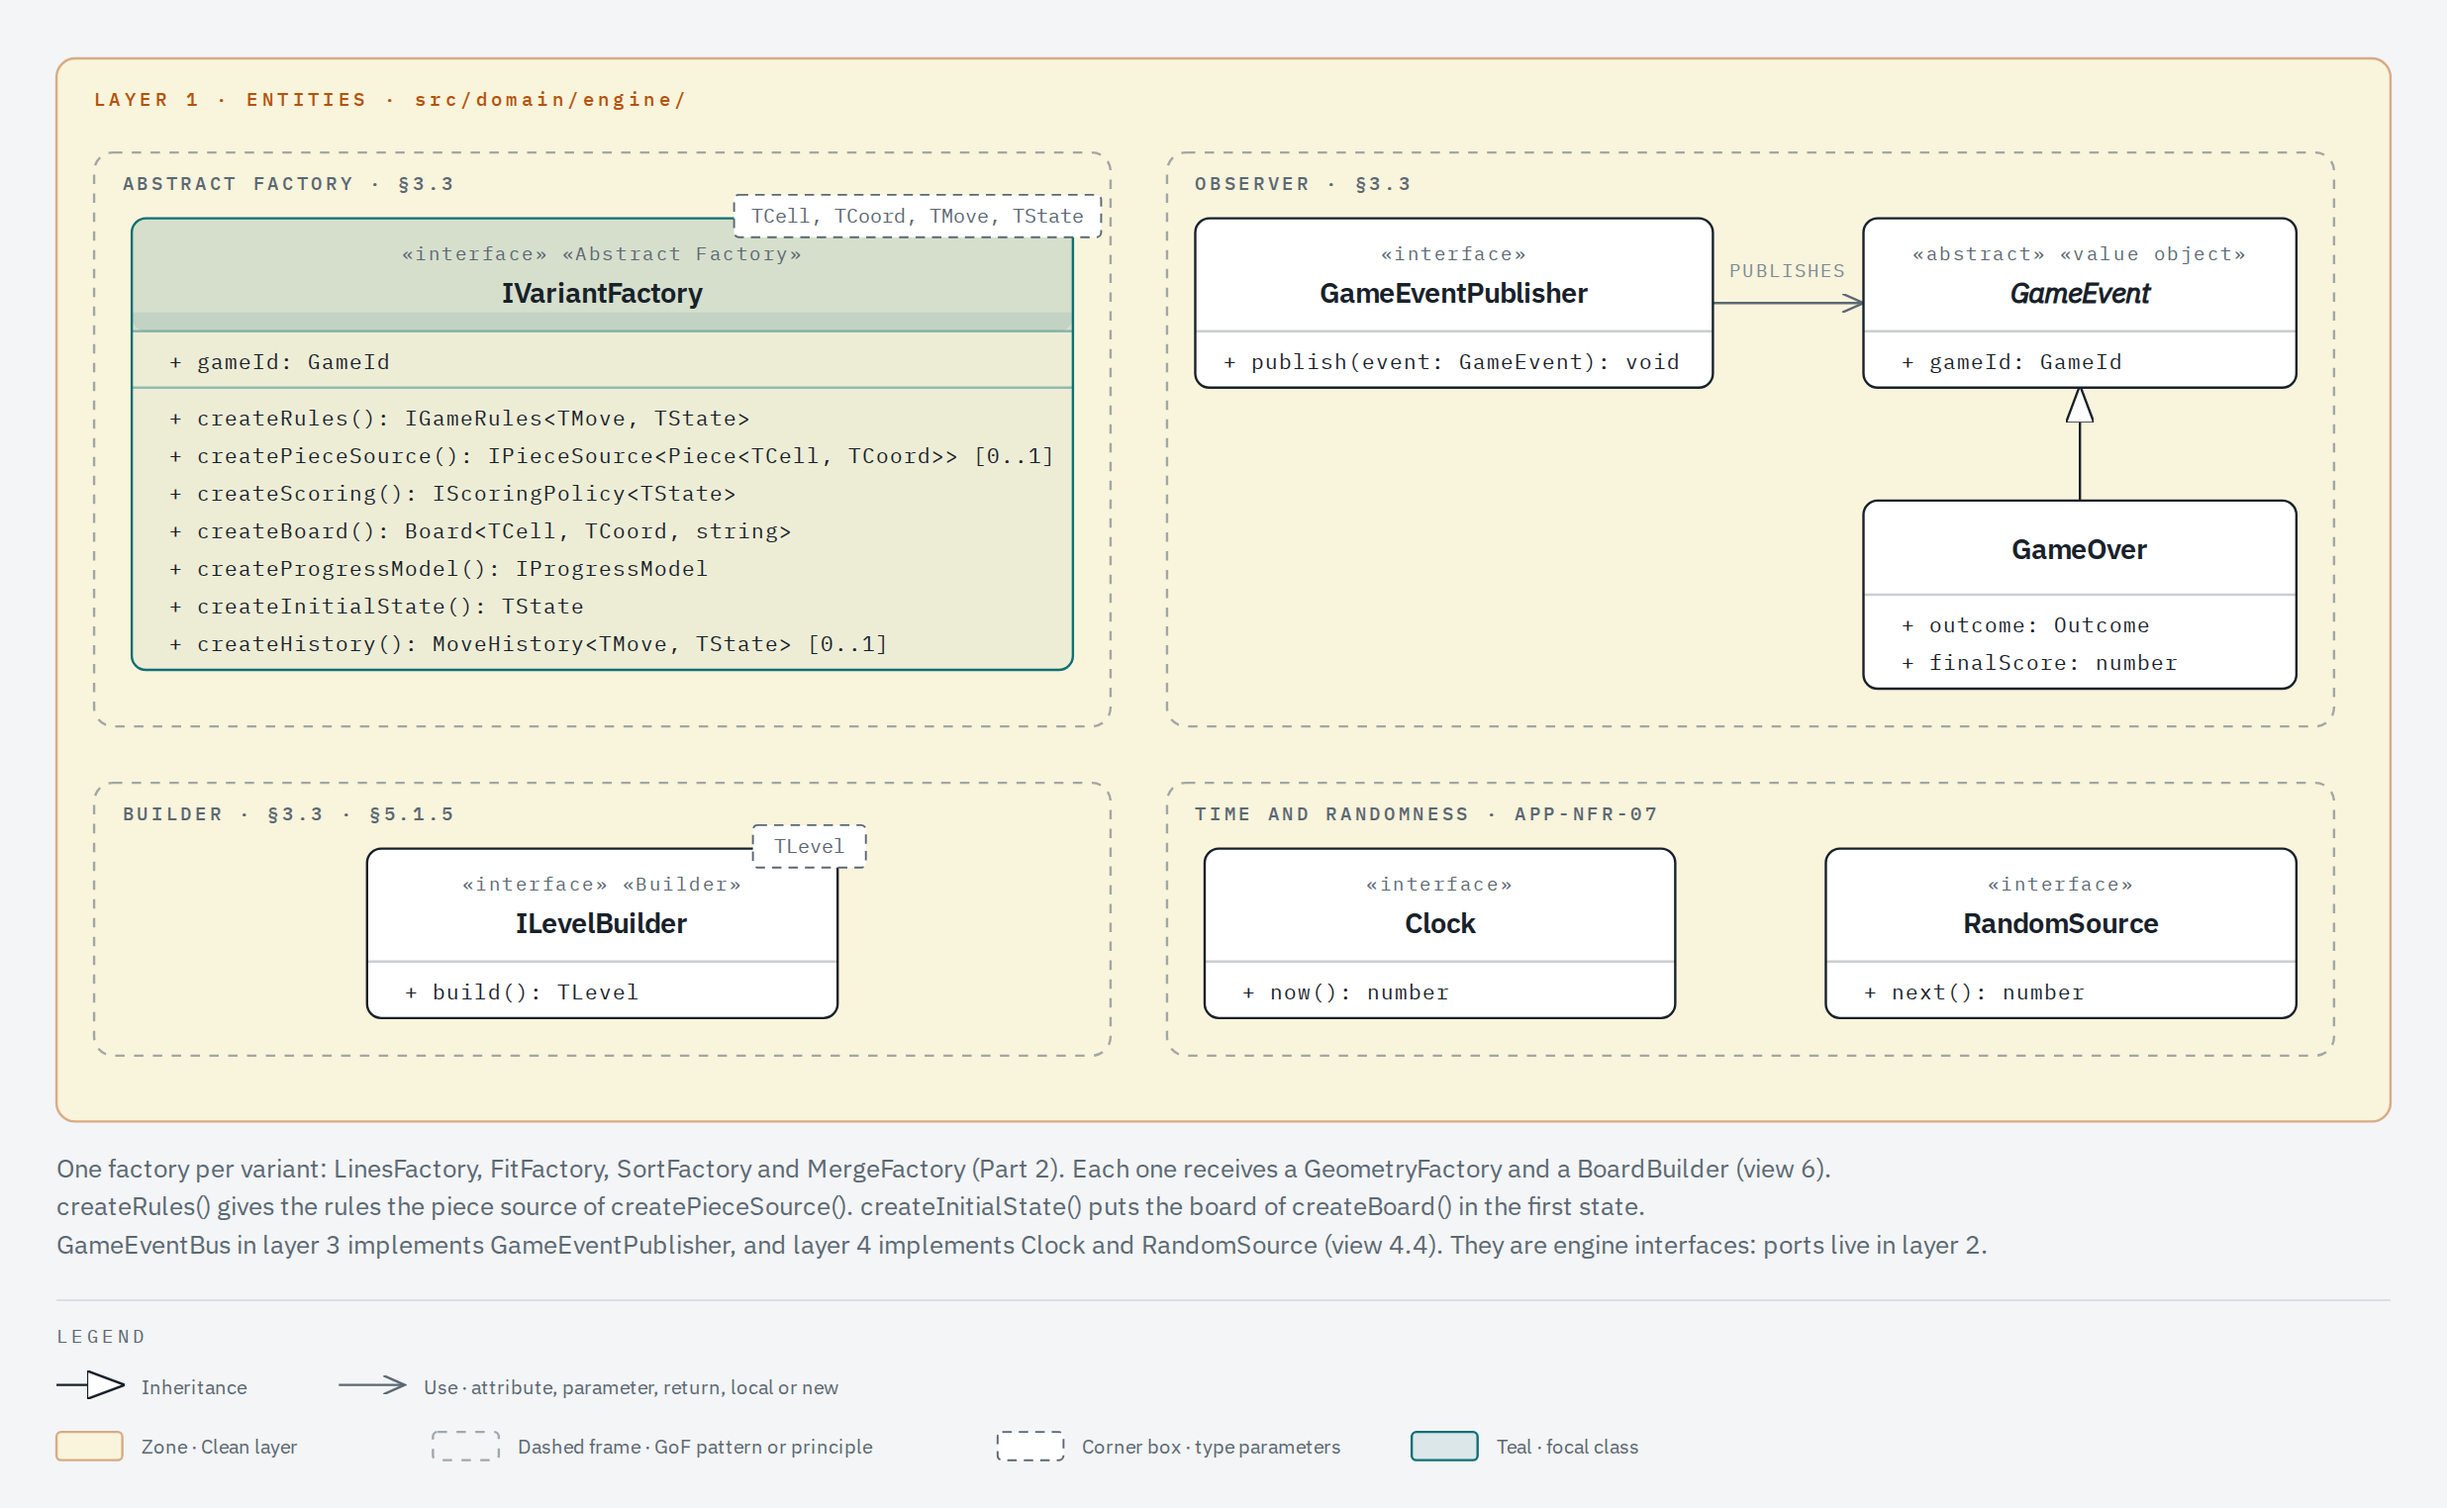
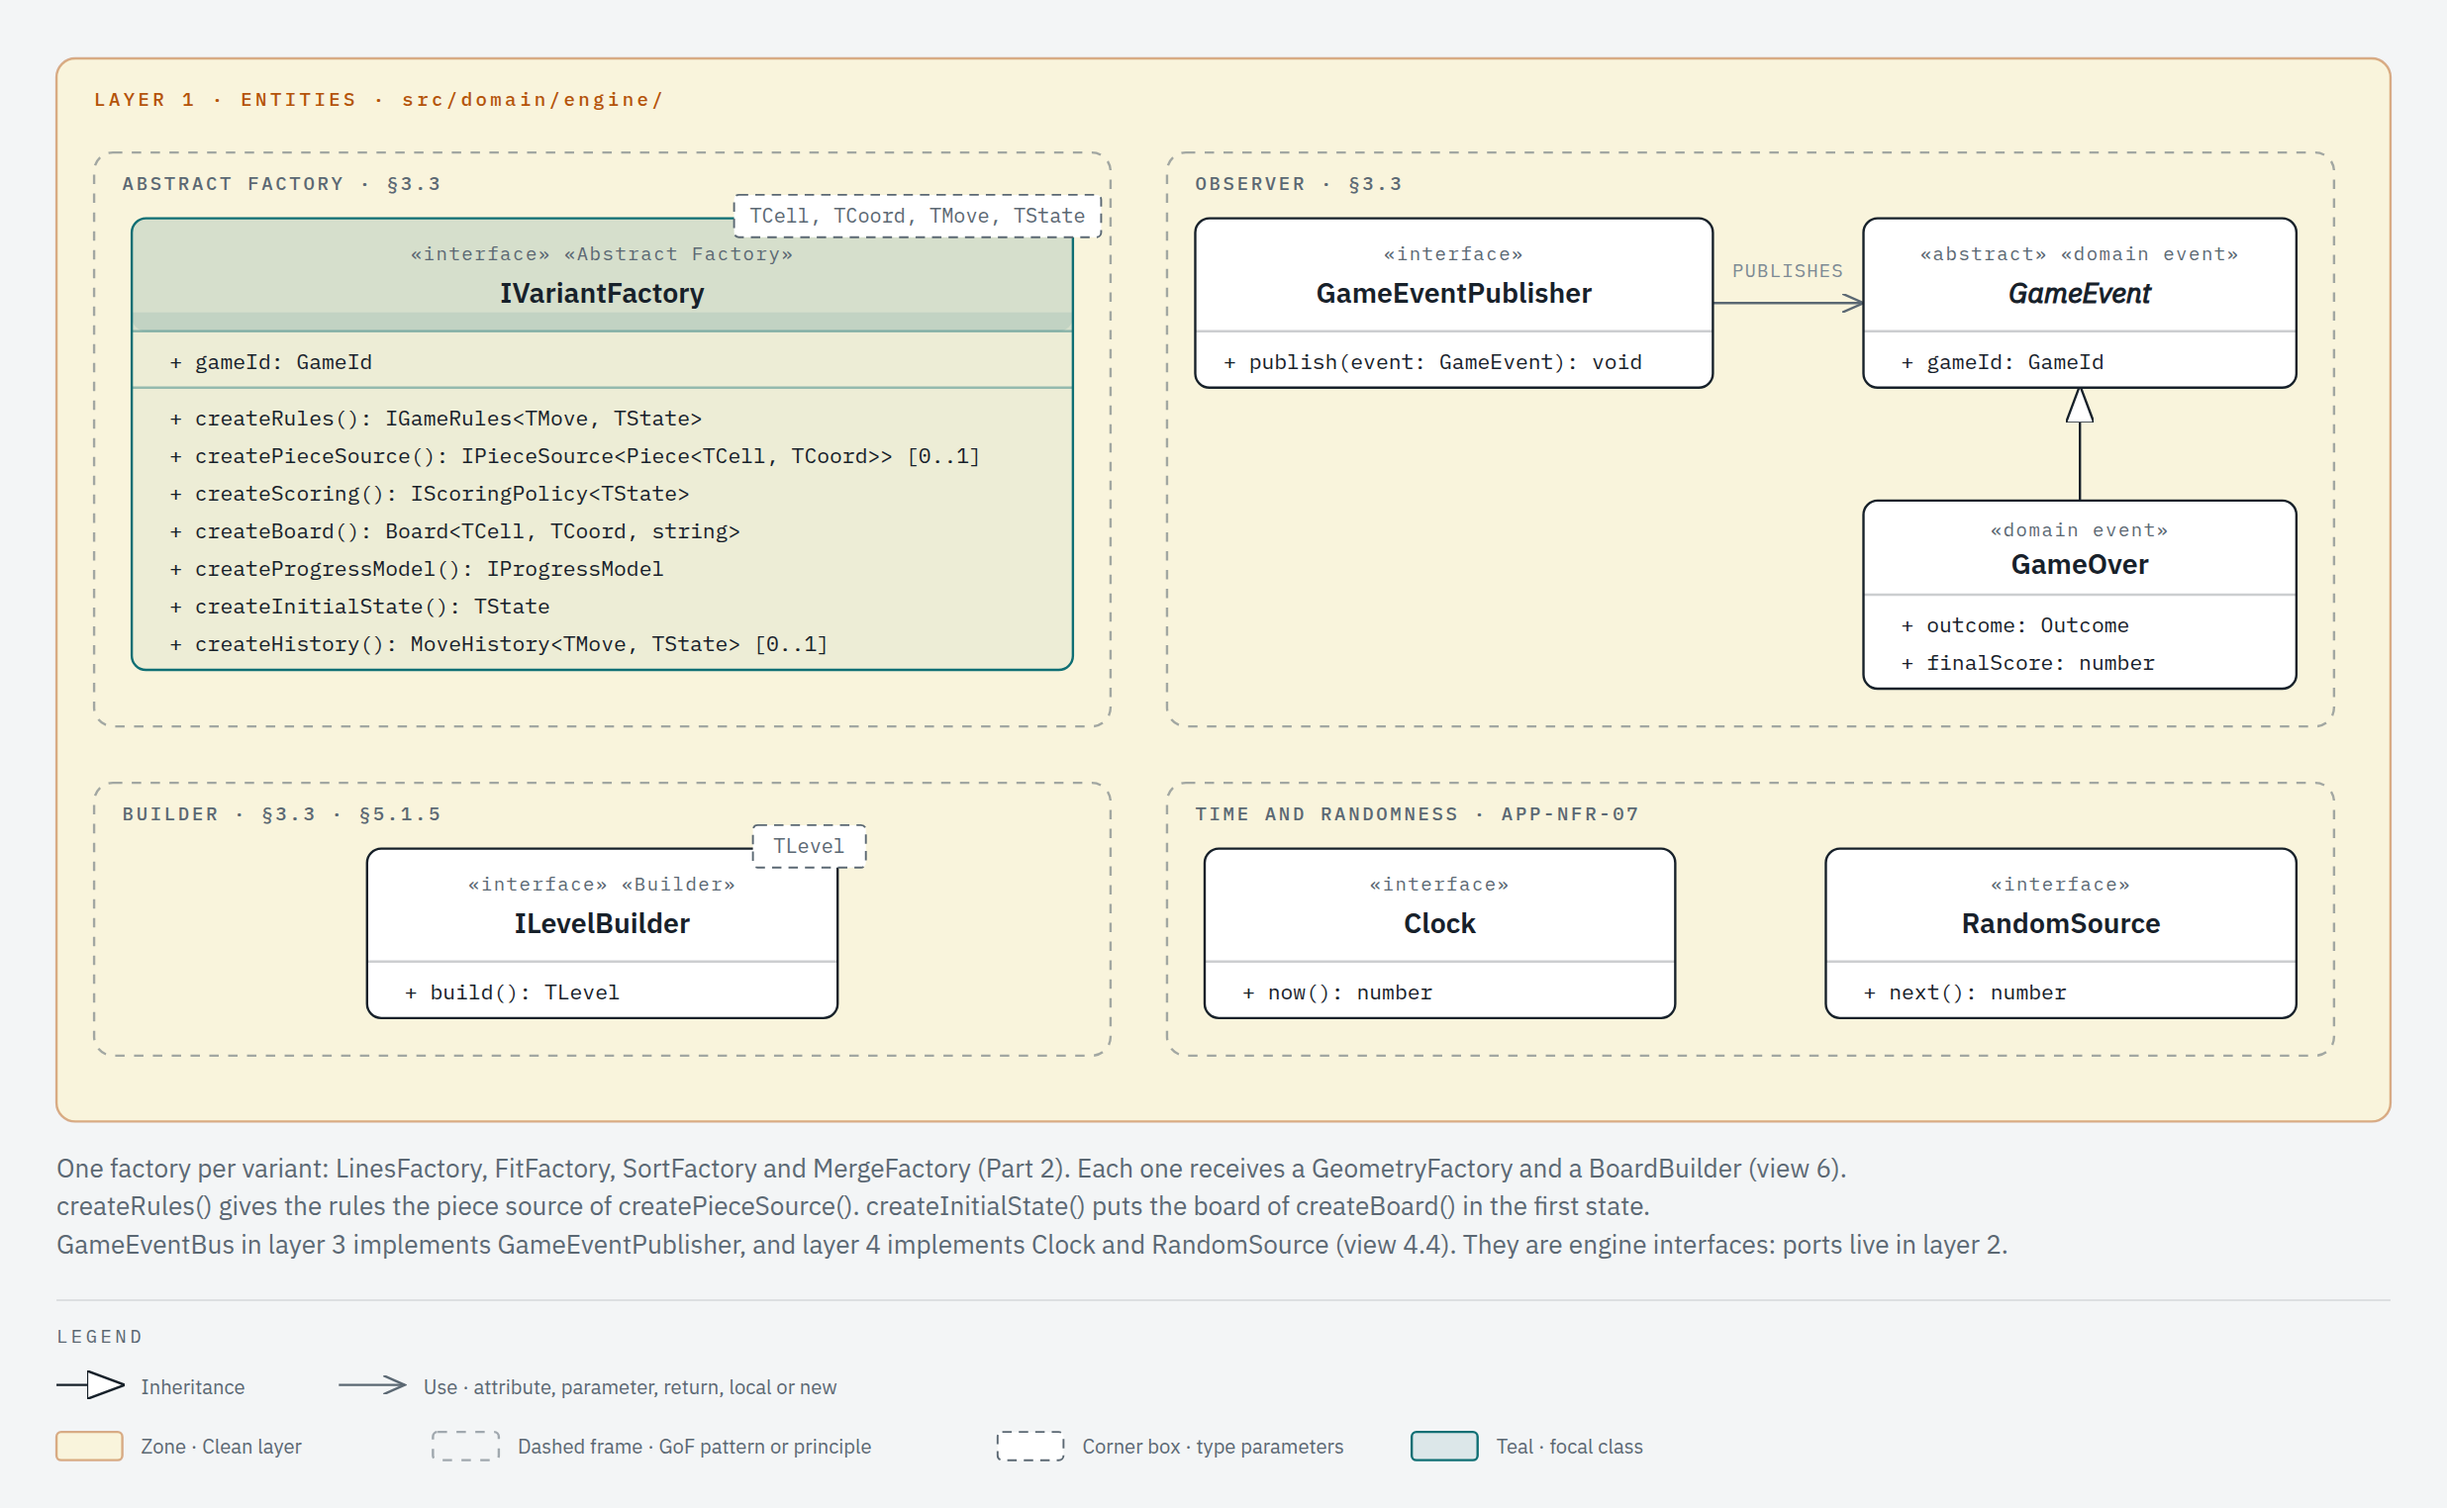
docs(architecture): add the missing DDD stereotypes to the class views

diff --git a/docs/architecture/classes/views/overview-engine.html b/docs/architecture/classes/views/overview-engine.html
@@ -937,7 +937,7 @@
             text-anchor="middle"
             letter-spacing="0.08em"
           >
-            abstract
+            abstract · domain event
           </text>
           <text x="528" y="277" fill="#17212a" text-anchor="middle">
             <tspan
@@ -961,7 +961,18 @@
             stroke="#17212a"
             stroke-width="1"
           />
-          <text x="528" y="223" fill="#17212a" text-anchor="middle">
+          <text
+            x="528"
+            y="214"
+            fill="#5b6873"
+            font-size="7"
+            font-family="'IBM Plex Mono', monospace"
+            text-anchor="middle"
+            letter-spacing="0.08em"
+          >
+            domain event
+          </text>
+          <text x="528" y="227" fill="#17212a" text-anchor="middle">
             <tspan font-family="'IBM Plex Sans', sans-serif" font-size="11" font-weight="600">
               GameOver
             </tspan>
@@ -1668,7 +1679,18 @@
             stroke="#17212a"
             stroke-width="1"
           />
-          <text x="134" y="1043" fill="#17212a" text-anchor="middle">
+          <text
+            x="134"
+            y="1034"
+            fill="#5b6873"
+            font-size="7"
+            font-family="'IBM Plex Mono', monospace"
+            text-anchor="middle"
+            letter-spacing="0.08em"
+          >
+            value object
+          </text>
+          <text x="134" y="1047" fill="#17212a" text-anchor="middle">
             <tspan font-family="'IBM Plex Sans', sans-serif" font-size="11" font-weight="600">
               Piece
             </tspan>

diff --git a/docs/architecture/classes/views/engine-5-factory.html b/docs/architecture/classes/views/engine-5-factory.html
@@ -383,7 +383,7 @@
           + publish(event: GameEvent): void
         </text>
 
-        <!-- Class: GameEvent (abstract, value object) -->
+        <!-- Class: GameEvent (abstract, domain event) -->
         <rect
           x="792"
           y="92"
@@ -404,7 +404,7 @@
           text-anchor="middle"
           letter-spacing="0.08em"
         >
-          «abstract» «value object»
+          «abstract» «domain event»
         </text>
         <text
           x="884"
@@ -422,7 +422,7 @@
           + gameId: GameId
         </text>
 
-        <!-- Class: GameOver -->
+        <!-- Class: GameOver (domain event) -->
         <rect
           x="792"
           y="212"
@@ -436,7 +436,18 @@
         <line x1="792" y1="252" x2="976" y2="252" stroke="rgba(23,33,42,0.22)" stroke-width="1" />
         <text
           x="884"
-          y="237"
+          y="227"
+          fill="#5b6873"
+          font-size="8"
+          font-family="'IBM Plex Mono', monospace"
+          text-anchor="middle"
+          letter-spacing="0.08em"
+        >
+          «domain event»
+        </text>
+        <text
+          x="884"
+          y="243"
           fill="#17212a"
           font-size="12"
           font-weight="600"

diff --git a/docs/architecture/classes/views/engine-2-board.html b/docs/architecture/classes/views/engine-2-board.html
@@ -709,7 +709,7 @@
           + clone(): BoardSpace&lt;TCell, TCoord&gt;
         </text>
 
-        <!-- Class: Piece (Prototype) -->
+        <!-- Class: Piece (value object, Prototype) -->
         <rect
           x="576"
           y="408"
@@ -731,7 +731,7 @@
           text-anchor="middle"
           letter-spacing="0.08em"
         >
-          «Prototype»
+          «value object» «Prototype»
         </text>
         <text
           x="761"

diff --git a/AI_USAGE.md b/AI_USAGE.md
@@ -94,6 +94,7 @@ TODO: add one entry per task: date, task, tool, prompt summary, what was kept an
 | 2026-11-09 | #157: `ITimed`, `LevelTimer` and `TimedRulesDecorator` for Fit                   | Claude Code | Claude Code with Claude Opus 5.5 added `ITimed`, `LevelTimer`, `TimedRulesDecorator`, the `Clock` of `FitFactory`, `GameEngine.timed()` and `MoveResult.elapsedMs`; each new rule test was seen failing first; a run over played Fit games with a fixed clock found no difference from the base commit in the existing fields; it exported the PNG images again with headless Chromium; a human reviews the PR before merge.                     | Pending team review   |
 | 2026-11-09 | Class of 2026-11-09, F0: the `BoardSpace` entity inside `Board`                  | Claude Code | Claude Code with Claude Opus 5.5 added the `BoardSpace` entity inside `Board` with `free()`, `equals()`, `occupy()`, `occupation()` and `clone()`, and decision 39 in `classes.md`; each new rule test was seen failing first; a run of 67,900 random board operations found no difference from the base commit; a human reviews the change before merge.                                                                                        | Pending team review   |
 | 2026-11-09 | Class of 2026-11-09, F1: `equals` on the firm value objects                      | Claude Code | Claude Code with Claude Opus 5.5 added `equals` to twelve value objects and replaced the instance comparison in `MergeRules` with `canMergeWith()`; each new `equals` test was seen failing first; the `MergeRules` change has no observable effect, so a run over random boards found no difference from the base commit; a human reviews the change before merge.                                                                              | Pending team review   |
+| 2026-11-09 | Class of 2026-11-09, F2 to F4: accessors, guards and stereotypes                 | Claude Code | Claude Code with Claude Opus 5.5 turned `GameEngine.phase` and `ColorStack.size` into methods, added guards on `GameResult.levelId`, `ProgressRecord.levelId` and `GameOver.finalScore`, and added the firm stereotypes to three class views; each new rule test was seen failing first; it exported the three PNG images again with headless Chromium; a human reviews the change before merge.                                                 | Pending team review   |
 
 ## Critical Evaluation
 
